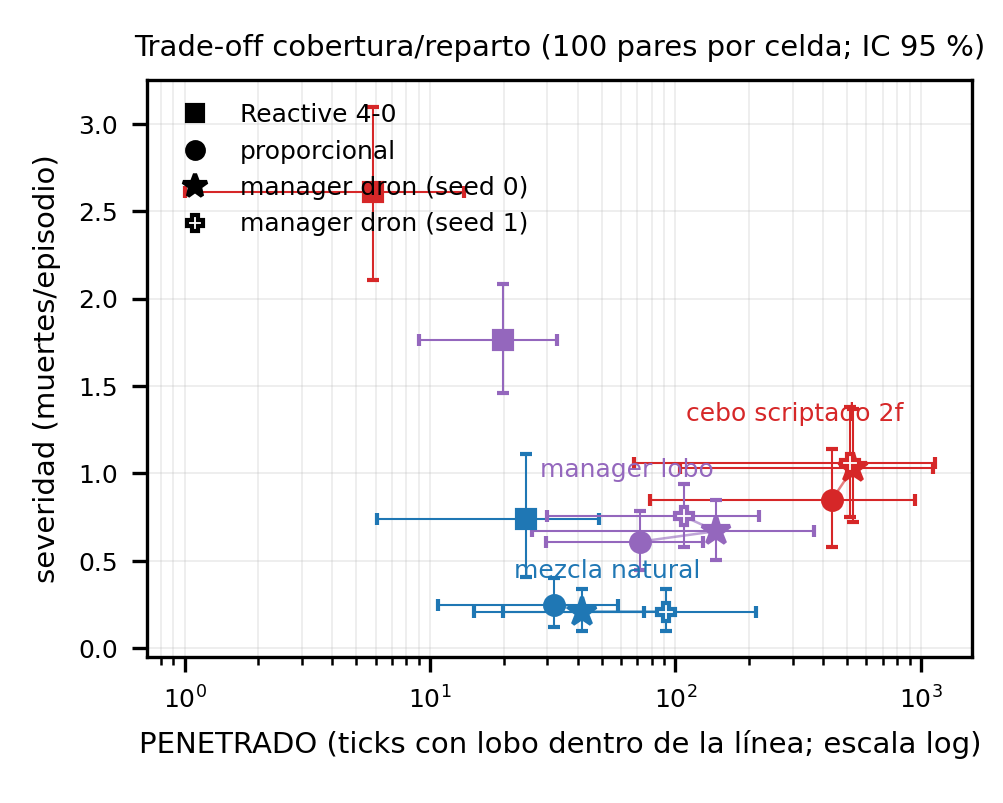
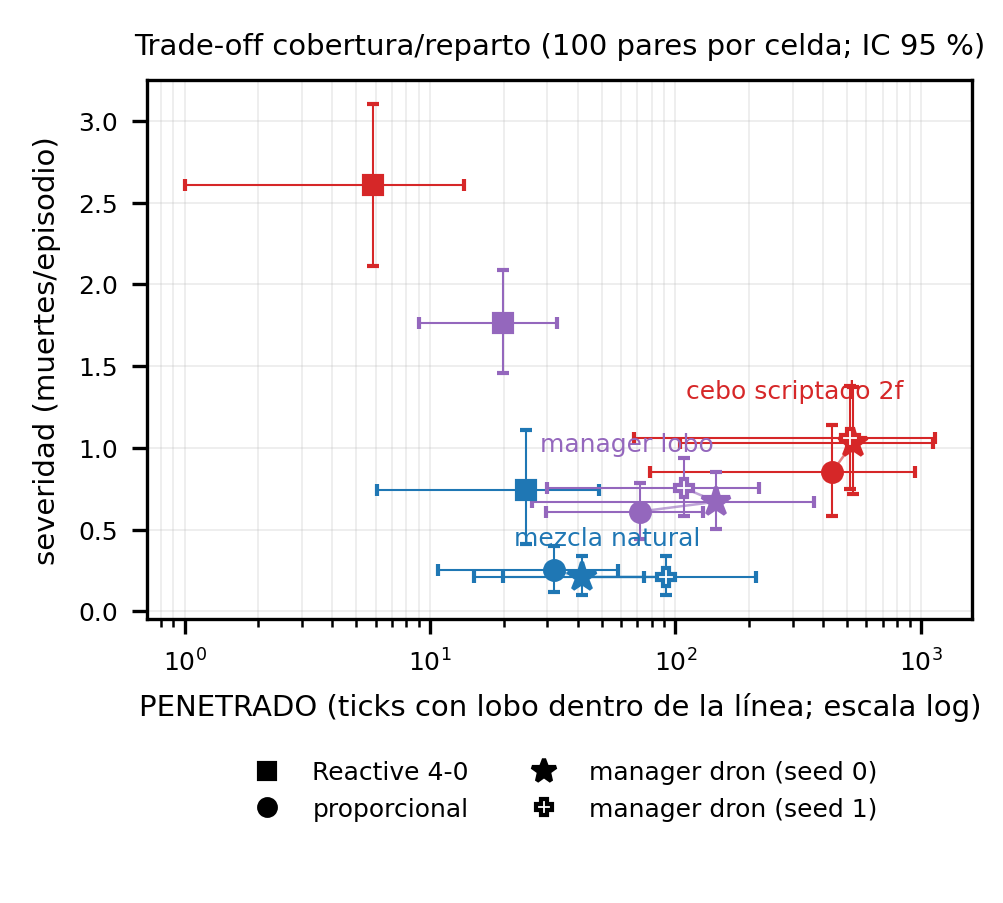
docs (figuras v2 del paper, revisión externa; solo regeneración de PNG): sin nombres internos de run en ninguna figura (run principal / main run); heatmap (a) con el denominador aclarado — 200 episodios = 100 semillas × {lobos, mixto} de una sola eval (manager_M1pppp_final__reactive.json), no un agr

diff --git a/results/paper/figs_paper.py b/results/paper/figs_paper.py
@@ -26,17 +26,17 @@ LABELS = {
   "to_x": "PENETRADO (ticks con lobo dentro de la línea; escala log)", "to_y": "severidad (muertes/episodio)",
   "to_title": "Trade-off cobertura/reparto (100 pares por celda; IC 95 %)",
   "to_ancho_title": "atacante: {a}", "to_ancho_x": "PENETRADO (ticks)", "to_ancho_y": "severidad",
-  "fr_panels": ["(a) show — t = 1231", "(b) suelta — t = 1419", "(c) golpe — t = 2375"],
-  "fr_ann": {"decoy_show": "señuelo (show)", "assault_ready": "asalto a tiro", "herd": "rebaño", "patrol": "patrulla (4 drones)",
+  "fr_panels": ["(a) muestra — t = 1231", "(b) suelta — t = 1419", "(c) golpe — t = 2375"],
+  "fr_ann": {"decoy_show": "señuelo (muestra)", "assault_ready": "asalto a tiro", "herd": "rebaño", "patrol": "patrulla (4 drones)",
              "shelter": "establo", "station": "estación", "decoy_released": "señuelo suelto", "assault_detected": "asalto detectado",
              "drone_invest": "dron investiga", "assault_confirmed": "asalto confirmado", "wolves_in_herd": "lobos en el rebaño", "barrier": "drones (barrera)"},
-  "fr_sup": "Jugada entera del manager lobo (seed 98, mixto, estrato S, opción Δ90): staged 901 → show 1231 → suelta 1419 → golpe 2375; sev 2",
+  "fr_sup": "Jugada entera del manager lobo (seed 98, mixto, estrato S, opción Δ90): preparado 901 → muestra 1231 → suelta 1419 → golpe 2375; sev 2",
   "hm_rows": ["G, n=3", "G, n=4", "G, n=5", "S, n=1", "S, n=2", "S, n=3", "S, n=4", "S, n=5"],
   "hm_acts": ["MASA", "CEBO keep", "CEBO Δ90", "CEBO Δ180"],
-  "hm_title": "(a) P(1ª opción | estrato, n lobos), manager final", "hm_row_n": "{l} (n={n})",
+  "hm_title": "(a) P(1ª opción | estrato, n lobos), run principal vs Reactive\n200 episodios = 100 semillas × {lobos, mixto}", "hm_row_n": "{l} (n={n})",
   "lig_cebo": "P(CEBO | G, n≥3)", "lig_d90": "P(Δ90 | S)", "lig_keep": "P(keep | G)", "lig_sev": "severidad (ligera)",
   "lig_x": "macro-pasos de PPO", "lig_y": "probabilidad (ligera, 40 semillas)", "lig_y2": "severidad media (ligera)",
-  "lig_title": "(b) emergencia en la ligera (RUN-M1'''', 40 semillas)",
+  "lig_title": "(b) emergencia en la ligera\ndel run principal (40 semillas)",
   "mu_shelter": "establo\n(zona segura, r = 60 m)", "mu_station": "estación de carga\n(r = 25 m, plazas fijas)",
   "mu_herd": "rebaño (pasto, ±40 m)", "mu_drone": "dron", "mu_exp": "expulsión 20 m", "mu_conf": "confirmación 40 m", "mu_det": "detección 100 m",
   "mu_wolves": "lobos\n(4 m/s)", "mu_flee": "huida al establo\n(vacas 1,2 m/s)", "mu_head": "parcela 500 × 500 m · dt = 0,1 s · drones 15 m/s", "mu_axis": "m",
@@ -57,10 +57,10 @@ LABELS = {
   "fr_sup": "Full play of the wolf manager (seed 98, mixed, stratum S, option Δ90): staged 901 → show 1231 → release 1419 → strike 2375; severity 2",
   "hm_rows": ["G, n=3", "G, n=4", "G, n=5", "S, n=1", "S, n=2", "S, n=3", "S, n=4", "S, n=5"],
   "hm_acts": ["MASS", "DECOY keep", "DECOY Δ90", "DECOY Δ180"],
-  "hm_title": "(a) P(first option | stratum, n wolves), final manager", "hm_row_n": "{l} (n={n})",
+  "hm_title": "(a) P(first option | stratum, n wolves), main run vs Reactive\n200 episodes = 100 seeds × {wolves, mixed}", "hm_row_n": "{l} (n={n})",
   "lig_cebo": "P(DECOY | G, n≥3)", "lig_d90": "P(Δ90 | S)", "lig_keep": "P(keep | G)", "lig_sev": "severity (light eval)",
   "lig_x": "PPO macro-steps", "lig_y": "probability (light eval, 40 seeds)", "lig_y2": "mean severity (light eval)",
-  "lig_title": "(b) emergence during training (RUN-M1'''', 40 seeds)",
+  "lig_title": "(b) emergence during training\nmain run (light eval, 40 seeds)",
   "mu_shelter": "shelter\n(safe zone, r = 60 m)", "mu_station": "charging station\n(r = 25 m, fixed slots)",
   "mu_herd": "herd (grazing, ±40 m)", "mu_drone": "drone", "mu_exp": "expulsion 20 m", "mu_conf": "confirmation 40 m", "mu_det": "detection 100 m",
   "mu_wolves": "wolves\n(4 m/s)", "mu_flee": "flight to shelter\n(cows 1.2 m/s)", "mu_head": "plot 500 × 500 m · dt = 0.1 s · drones 15 m/s", "mu_axis": "m",
@@ -116,7 +116,7 @@ for a, _ in ATK:
     for d, _ in DEF:
         eps = json.load(open(f"{D}/hrl_d2/e04_{d}__{a}.json"))["episodes"]
         pts[(d, a)] = (ci([e["penetrado"] for e in eps]), ci([e["sev"] for e in eps]), len(eps))
-fig, ax = plt.subplots(figsize=(COL, COL * 0.8))
+fig, ax = plt.subplots(figsize=(COL, COL * 0.9))
 for a, col in ATK:
     xs = []
     for d, mk in DEF:
@@ -129,17 +129,17 @@ for a, col in ATK:
 for d, mk in DEF:
     ax.plot([], [], mk, color="k", mfc="k" if d != "dronemgr_r1" else "white", ms=6 if mk == "*" else 4, label=L["def"][d])
 ax.set_xscale("log"); ax.set_xlabel(L["to_x"]); ax.set_ylabel(L["to_y"]); ax.set_title(L["to_title"], fontsize=7)
-ax.legend(frameon=False, loc="upper left"); ax.grid(alpha=0.25, lw=0.4, which="both")
+ax.legend(frameon=False, loc="upper center", bbox_to_anchor=(0.5, -0.22), ncol=2); ax.grid(alpha=0.25, lw=0.4, which="both")
 fig.tight_layout(); fig.savefig(f"{OUT}/fig_tradeoff.png", dpi=300); plt.close(fig)
-fig, axs = plt.subplots(1, 3, figsize=(DBL, DBL * 0.3))
+fig, axs = plt.subplots(1, 3, figsize=(DBL, DBL * 0.36))
 for ax, (a, col) in zip(axs, ATK):
     for d, mk in DEF:
         (p, pl, ph), (s, sl, sh), n = pts[(d, a)]; c = col if d != "reactive" else "#444"
         ax.errorbar(p, s, xerr=[[p - pl], [ph - p]], yerr=[[s - sl], [sh - s]], fmt=mk, color=c, ms=7 if mk == "*" else 4.5,
                     mfc=c if d != "dronemgr_r1" else "white", capsize=1.5, elinewidth=0.5, lw=0.5, label=L["def"][d])
     ax.set_title(L["to_ancho_title"].format(a=L["atk"][a])); ax.set_xlabel(L["to_ancho_x"]); ax.set_ylabel(L["to_ancho_y"]); ax.grid(alpha=0.25, lw=0.4)
-axs[0].legend(frameon=False)
-fig.tight_layout(); fig.savefig(f"{OUT}/fig_tradeoff_ancho.png", dpi=300); plt.close(fig)
+h, l = axs[0].get_legend_handles_labels(); fig.legend(h, l, frameon=False, loc="lower center", ncol=4, bbox_to_anchor=(0.5, 0.0))
+fig.tight_layout(rect=(0, 0.09, 1, 1)); fig.savefig(f"{OUT}/fig_tradeoff_ancho.png", dpi=300); plt.close(fig)
 notes["tradeoff"] = {f"{d}|{a}": {"pen": round(pts[(d, a)][0][0], 1), "sev": round(pts[(d, a)][1][0], 2)} for (d, a) in pts}
 
 # ------------------------------------------------------------------ fig_cebo_frames
@@ -185,7 +185,8 @@ M = np.array([[P[k][a] for a in acts] for k in keys]); cnt = {}
 for e in r["episodes"]:
     k = ("G" if e["two_front"] else "S") + f"_n{e['n_wolves']}"; cnt[k] = cnt.get(k, 0) + 1
 LG = [json.loads(l) for l in open(f"{D}/hrl_m1/M1pppp/eval_ligera.jsonl")]
-fig, (a1, a2) = plt.subplots(1, 2, figsize=(DBL, DBL * 0.33), gridspec_kw={"width_ratios": [1, 1.3]})
+fig, (a1, a2) = plt.subplots(1, 2, figsize=(DBL, DBL * 0.36), gridspec_kw={"width_ratios": [1, 1.3]})
+a1.title.set_fontsize(6.5)
 a1.imshow(M, cmap="Greens", vmin=0, vmax=1, aspect="auto")
 a1.set_xticks(range(4)); a1.set_xticklabels(L["hm_acts"], rotation=20); a1.set_yticks(range(len(keys)))
 a1.set_yticklabels([L["hm_row_n"].format(l=l, n=cnt.get(k, 0)) for l, k in zip(L["hm_rows"], keys)])

diff --git a/results/paper/INFORME_FIGS_V2.md b/results/paper/INFORME_FIGS_V2.md
@@ -1,0 +1,46 @@
+# INFORME FIGS V2 — figuras corregidas tras la revisión externa (solo lectura + regeneración de PNG; ningún run)
+
+Regeneradas con `figs_paper.py --lang es|en` (mismos nombres, 300 dpi, 8,5 / 17,5 cm; `figs/figs_notas.json` con ambos
+idiomas). Cambios: (1a) sin nombres internos de run en ninguna figura ("run principal" / "main run"); (1b) título del panel (a)
+del heatmap con el denominador aclarado; (2) rótulos ES de la tira: muestra / suelta / golpe (y "preparado 901 → muestra 1231"
+en el supertítulo; anotación "señuelo (muestra)"); (3) leyendas de `fig_tradeoff` (debajo del eje, 2 columnas) y
+`fig_tradeoff_ancho` (una sola leyenda bajo los 3 paneles) fuera del área de datos; datos y escalas intactos.
+
+## 1b. Denominadores del panel (a) del heatmap (n = 18…42, suma 200)
+
+**No es un agregado de runs ni un error de conteo**: son los **200 episodios de UNA sola evaluación** — el run principal
+(ckpt final) contra Reactive — porque el protocolo evalúa **100 semillas × 2 tipos de episodio {solo-lobos, mixto}**
+(los "100 pares" del paper son semillas emparejadas; cada semilla aporta dos episodios). Fuente:
+`/data/hrl_m1/eval/manager_M1pppp_final__reactive.json` → `episodes[]`: `Counter(kind) = {lobos: 100, mixto: 100}`, 100
+semillas distintas; por (estrato, nº de lobos): S,n=2: 42 · S,n=4: 32 · S,n=3: 28 · G,n=4: 28 · S,n=1: 24 · G,n=3: 18 ·
+S,n=5: 16 · G,n=5: 12 (= 200). Los porcentajes del panel salen de `resumen.P_a_first` del mismo JSON. Título nuevo:
+"200 episodios = 100 semillas × {lobos, mixto}".
+
+## 5a. Por qué KNC es `None` en la celda "gestor atacante" de la tabla D2
+
+KNC (fracción de muertes cuyo lobo matador **nunca fue confirmado** por la barrera) se calcula en el arnés E0.4
+(`/data/hrl_d2/e04.py`) **a partir del registro por muerte `killer_confirmado`** que produce el bucle plano del mundo para
+los atacantes scriptados (`run_script`, línea 153: `knc = Σ[not d["killer_confirmado"]]`). Para el atacante "gestor" el
+episodio corre dentro de `ManagerEnv` (`run_manager`, líneas 160-185), y ese arnés **no extrae el registro por muerte**, así
+que el script fija `"knc": None` (línea 180) y el resumen de la celda deja `knc_frac = None` (líneas 214/225: se agrega solo
+sobre episodios con KNC definido). Es decir: **KNC no está definido en esa celda porque no se midió allí, no porque sea 0**.
+Nota al pie sugerida: "KNC no se computa para el atacante gestor en la tabla D2: el arnés de esa celda no registra la
+confirmación del lobo matador (e04.py); la KNC del gestor lobo sí está medida en su propia evaluación (v3.7, vs Reactive):
+**0.363** (`/data/hrl_m1/m1pppp/canal_manager_v37.json` → `auditoria.knc_frac`; oráculo 0.404, `canal_oracle_v37.json`)."
+
+## 5b. Las "dos defensas aprendidas" de la transferencia 1,75 / 1,76
+
+Sí: son los dos **MARL residuales de drones (MAPPO, receta residual sobre la barrera)**, congelados como oponentes en
+`hrl/manager_env.py` (líneas 60-61): `RUN02_MODEL = /data/drones/run02_v34/model.zip` (run02, entrenado en el mundo **v3.4**,
+20 M pasos-agente, 6 h 03) y `RUN09_MODEL = /data/drones/run09_v35/model.zip` (run09, la misma receta re-entrenada en
+**v3.5-sonido**, 20 M pasos, 7 h 57). Evaluaciones: `/data/hrl_m1/eval/manager_M1pppp_final__run02.json` → `resumen.sev =
+[1.755, 1.45, 2.07]` y `manager_M1pppp_final__run09.json` → `[1.76, 1.45, 2.08]` (vs Reactive: 1.765). Ambos ckpts van en
+`archivo_tfg_modelos.tar.gz` (`drones/run02_v34/model.zip`, `drones/run09_v35/model.zip`). "Nunca vistas" es exacto: el
+manager se entrenó solo contra la barrera Reactive (`train_manager.py`, oponente `reactive`).
+
+## Notas
+- `results/MANIFEST.md` §3 conserva los sha256 de las figuras **v1** (archivo del 23-08); las v2 sustituyen a las v1 en
+  `/data/paper/figs*` y en `results/paper/figs*` — el zip de esta entrega (`figs_v2.zip`) lleva su propio sha256 abajo.
+- Los fotogramas re-renderizados de `fig_cebo_frames` (EN) no se tocan; en ES se usa el GIF original.
+
[1 lines of base64/hex data omitted]
